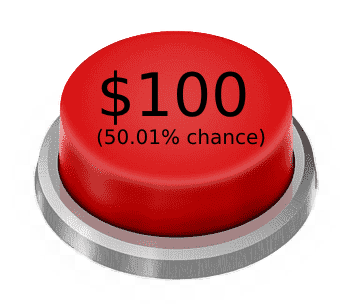
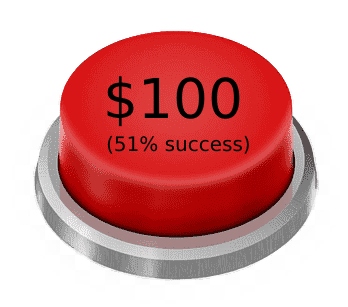
minor changes

Changed region(s): [[0.2586, 0.2345, 0.7759, 0.4984]]

diff --git a/code/slot_logic.js b/code/slot_logic.js
@@ -1,10 +1,10 @@
-var money = 5000;
+var money = 10000;
 var lose = false;
 function slot(mode) {
     if (!lose){
         var rand = Math.random();
         if (mode == 1){
-            if (rand <= 0.5001){
+            if (rand <= 0.51){
                 document.getElementById("output").innerHTML = "+100";
                 document.getElementById("output").style.color = "green";
                 money += 200;
@@ -19,7 +19,7 @@ function slot(mode) {
                 document.getElementById("output").innerHTML = "Insufficient funds.";
                 document.getElementById("output").style.color = "black";
                 money += 1000;
-            }else if (rand <= 0.501){
+            }else if (rand <= 0.525){
                 document.getElementById("output").innerHTML = "+1000";
                 document.getElementById("output").style.color = "green";
                 money += 2000;
@@ -33,7 +33,7 @@ function slot(mode) {
                 document.getElementById("output").innerHTML = "Insufficient funds.";
                 document.getElementById("output").style.color = "black";
                 money += 10000;
-            }else if (rand <= 0.51){
+            }else if (rand <= 0.55){
                 document.getElementById("output").innerHTML = "+10000";
                 document.getElementById("output").style.color = "green";
                 money += 20000;

diff --git a/slot.html b/slot.html
@@ -7,20 +7,19 @@
 </style>
 <body>
 <div class="content">
-<p id="money">Money: $5000</p>
-<p id ="output"></p>
+<p id="money">Money: $10000</p>
+<p id ="output">Press a button to try and double your bet.</p>
 <div class="row">
   <div class="column">
-    <img src="img/button1.png" alt="50.01% chance of success" onclick="slot(1);">
+    <img src="img/button1.png" alt="51% chance of success" onclick="slot(1);">
   </div>
   <div class="column">
-    <img src="img/button2.png" alt="50.1% chance of success" onclick="slot(2);">
+    <img src="img/button2.png" alt="52.5% chance of success" onclick="slot(2);">
   </div>
   <div class="column">
-    <img src="img/button3.png" alt="51% chance of success" onclick="slot(3);">
+    <img src="img/button3.png" alt="55% chance of success" onclick="slot(3);">
   </div>
 </div>
-<br>Press a button to try and double your bet. <br>
 </div>
 <script src="code/slot_logic.js"></script>
 </body>
@@ -32,13 +31,17 @@ font-size: 40px;
 
 }
 
+#money{
+
+font-size: 40px;
+
+}
 .row {
   display: flex;
 }
 
 .column {
   flex: 33.33%;
-  padding: 5px;
 }
 
 </style>
